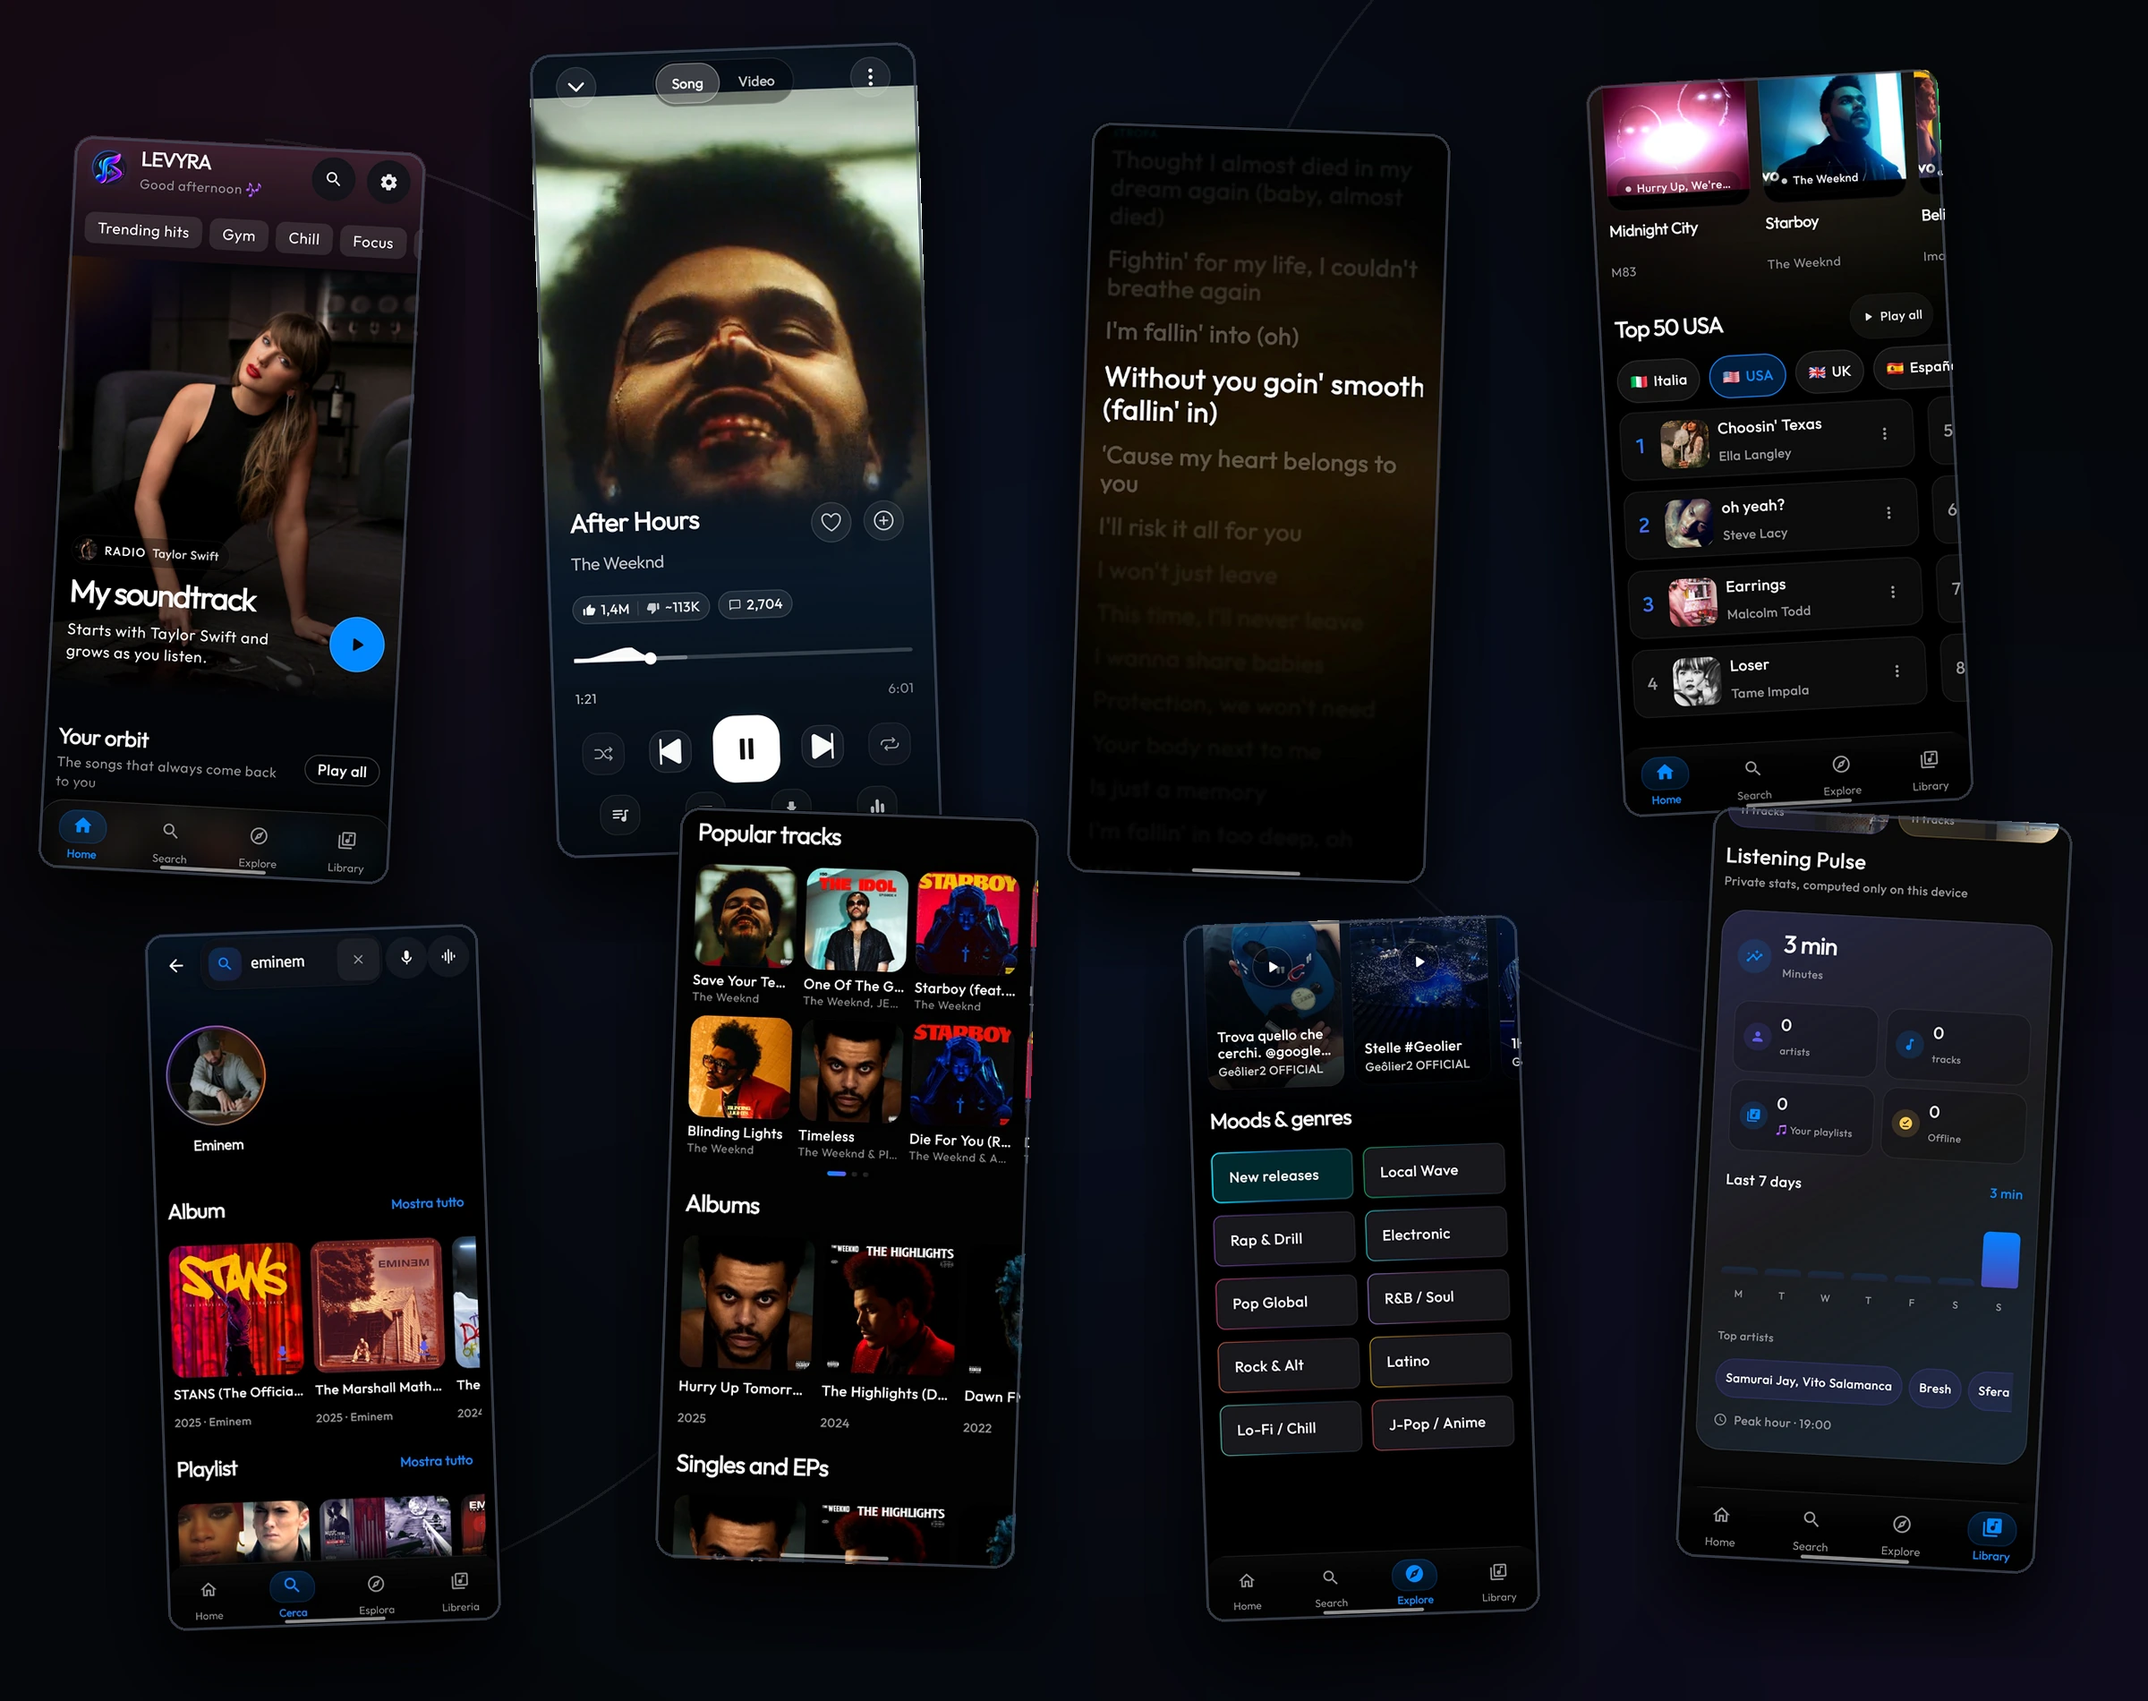
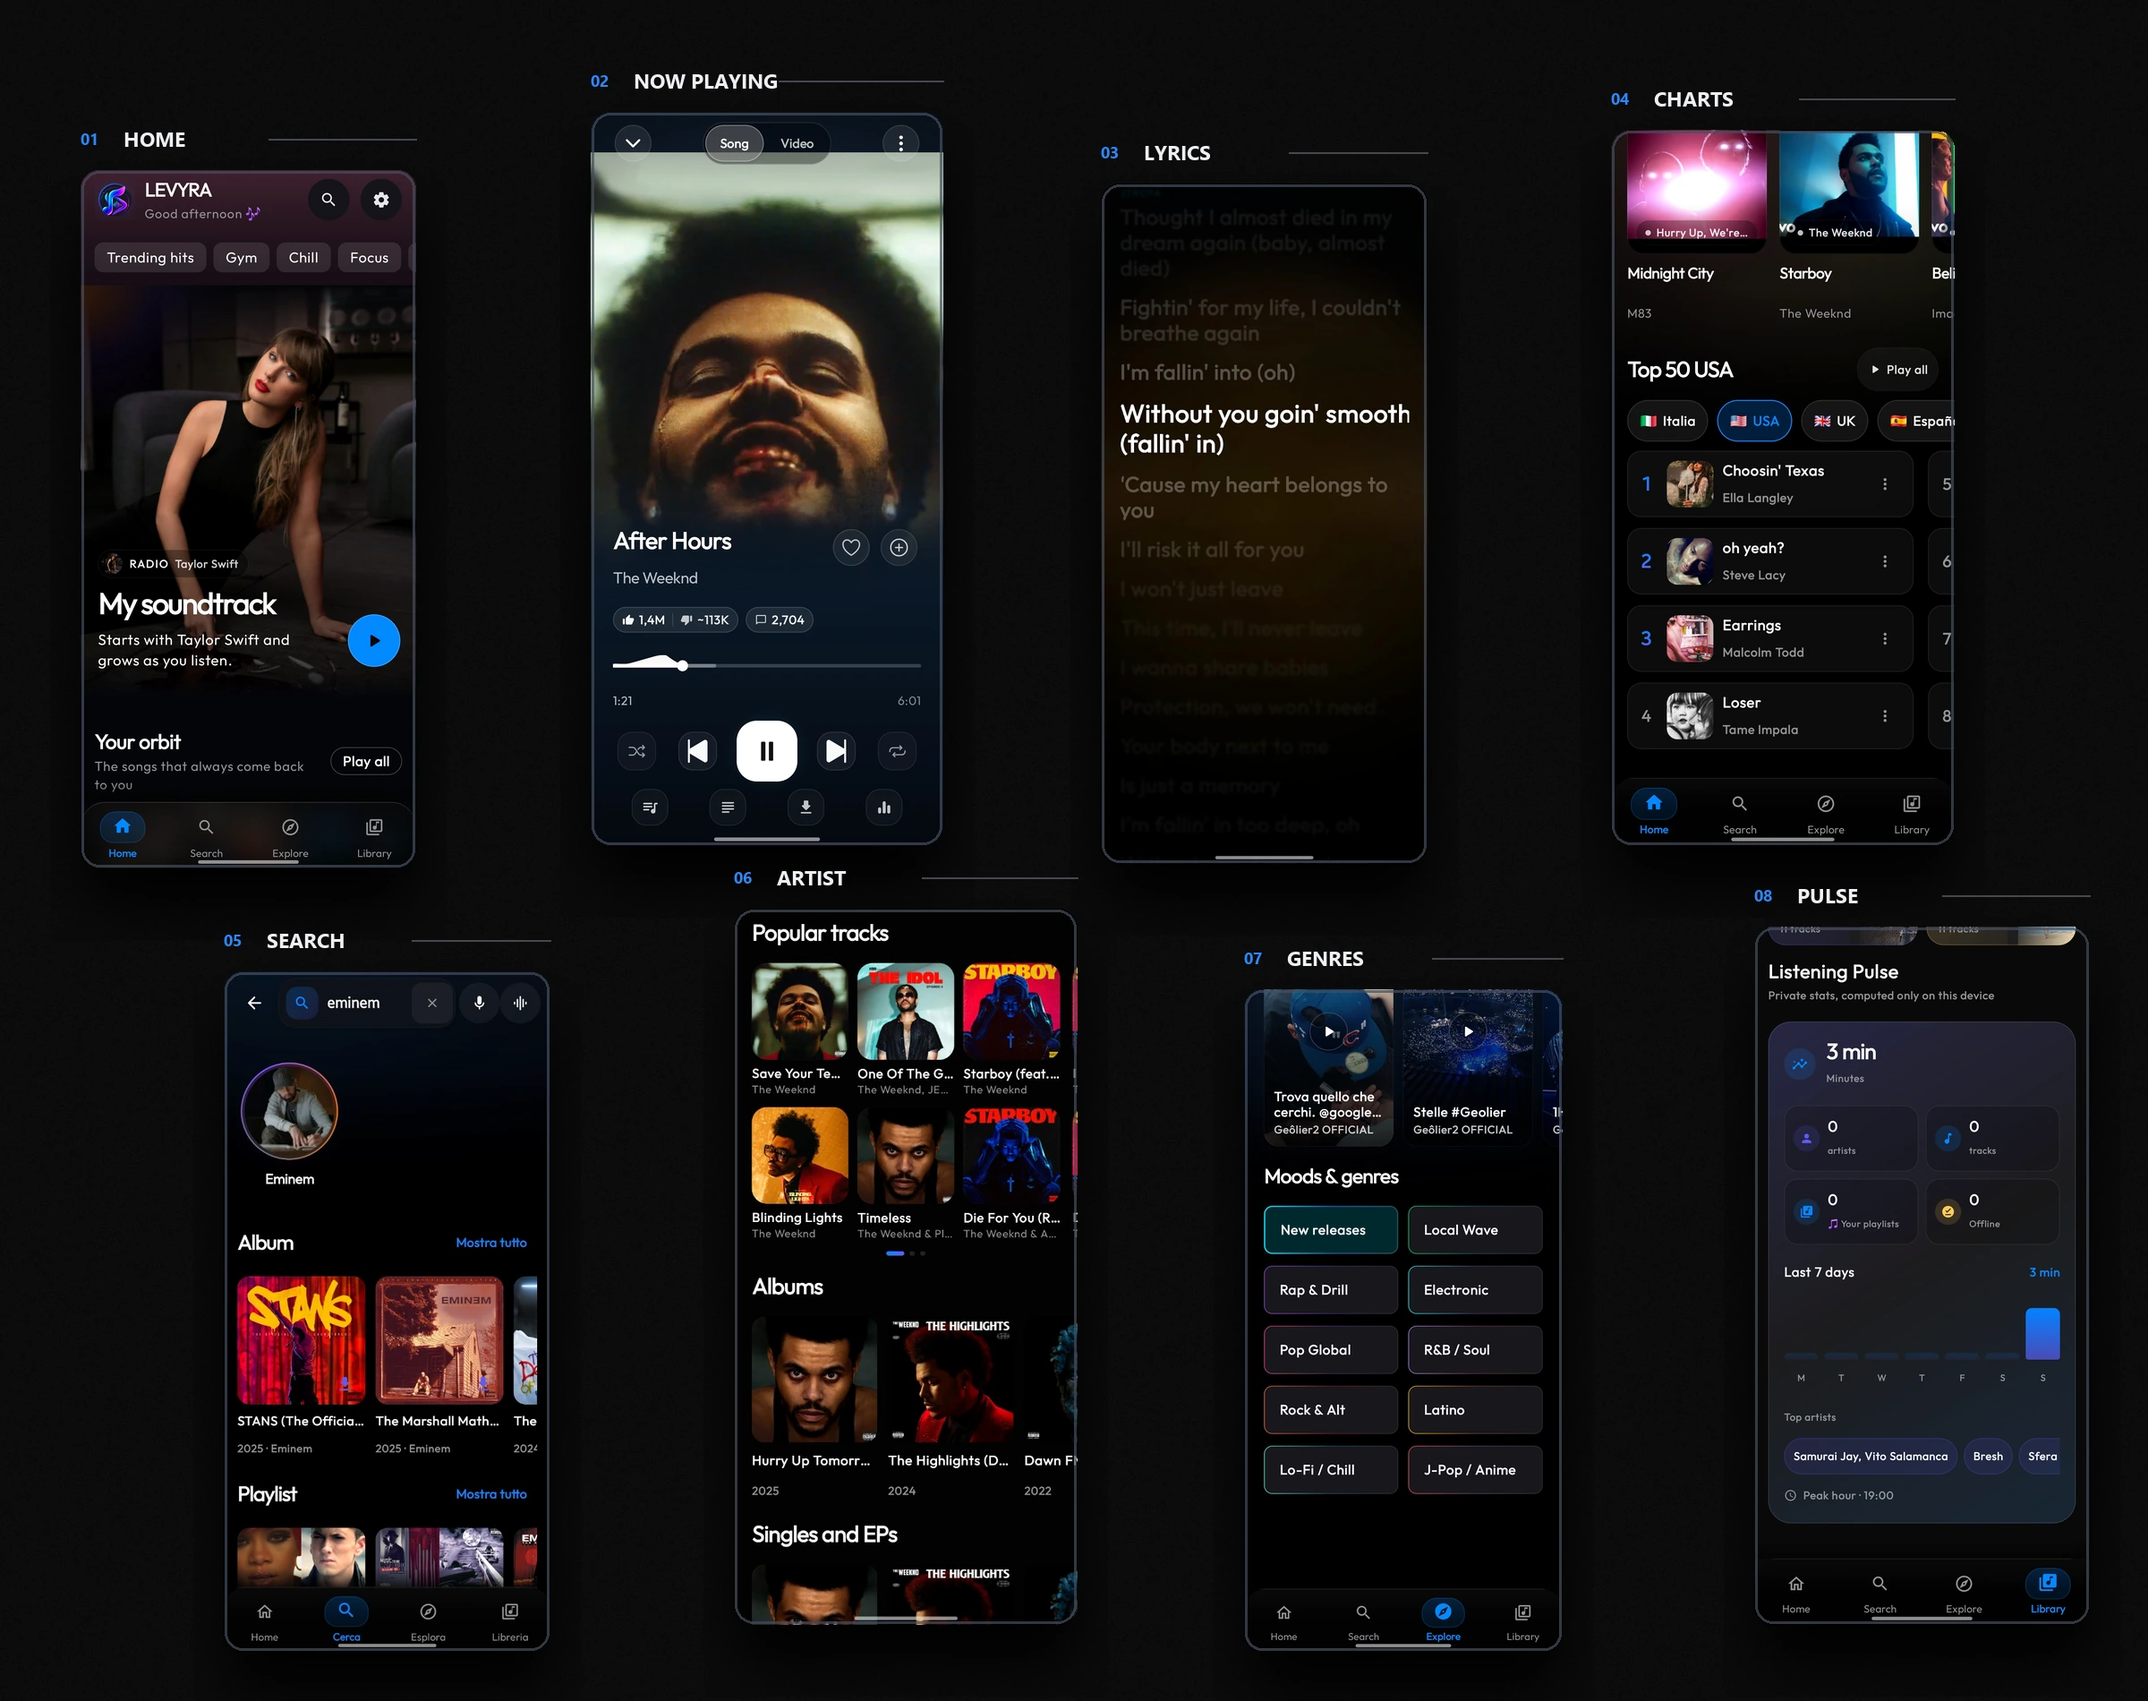
docs: redesign gallery as an editorial contact sheet

diff --git a/scripts/generate_showcase_assets.py b/scripts/generate_showcase_assets.py
@@ -348,44 +348,36 @@ def generate_hero_panoramic_showcase():
 
 def generate_gallery_showcase():
     canvas_w, canvas_h = 2400, 1900
-    canvas = Image.new("RGBA", (canvas_w, canvas_h), (5, 7, 11, 255))
-    canvas = Image.alpha_composite(
-        canvas,
-        create_ambient_glow(canvas_w, canvas_h, (420, 430), 720, (205, 48, 115), max_alpha=65),
-    )
-    canvas = Image.alpha_composite(
-        canvas,
-        create_ambient_glow(canvas_w, canvas_h, (1200, 840), 980, (34, 111, 255), max_alpha=70),
-    )
-    canvas = Image.alpha_composite(
-        canvas,
-        create_ambient_glow(canvas_w, canvas_h, (2050, 1450), 760, (105, 61, 210), max_alpha=62),
-    )
-
-    line_layer = Image.new("RGBA", (canvas_w, canvas_h), (0, 0, 0, 0))
-    line_draw = ImageDraw.Draw(line_layer)
-    line_draw.arc((-620, 150, 1040, 1810), 276, 84, fill=(255, 255, 255, 20), width=3)
-    line_draw.arc((1360, -260, 2820, 1200), 96, 264, fill=(255, 255, 255, 17), width=3)
-    canvas = Image.alpha_composite(canvas, line_layer)
+    rng = np.random.default_rng(27)
+    grain = rng.normal(0, 1.7, (canvas_h, canvas_w, 1))
+    base = np.full((canvas_h, canvas_w, 3), 12, dtype=np.float32)
+    canvas = Image.fromarray(np.clip(base + grain, 7, 18).astype(np.uint8), "RGB").convert("RGBA")
+    draw = ImageDraw.Draw(canvas)
+    label_font = get_font(23, bold=True)
+    number_font = get_font(18, bold=True)
 
     placements = [
-        ("home", 40, 150, -3, 820),
-        ("now_playing", 590, 45, 2, 900),
-        ("lyrics", 1190, 135, -2, 840),
-        ("charts", 1770, 75, 3, 820),
-        ("search_artist", 160, 1030, 2, 780),
-        ("artist_discography", 730, 900, -2, 840),
-        ("genres", 1320, 1020, 2, 780),
-        ("listening_pulse", 1870, 900, -3, 840),
+        ("home", "01", "HOME", 90, 190, 780),
+        ("now_playing", "02", "NOW PLAYING", 660, 125, 820),
+        ("lyrics", "03", "LYRICS", 1230, 205, 760),
+        ("charts", "04", "CHARTS", 1800, 145, 800),
+        ("search_artist", "05", "SEARCH", 250, 1085, 760),
+        ("artist_discography", "06", "ARTIST", 820, 1015, 800),
+        ("genres", "07", "GENRES", 1390, 1105, 740),
+        ("listening_pulse", "08", "PULSE", 1960, 1035, 780),
     ]
 
-    for key, x, y, angle, height in placements:
+    for key, number, label, x, y, height in placements:
         with Image.open(get_screen_path(SCREENS[key])) as source:
             screen = create_gallery_screen(source, target_height=height)
-        tilted = screen.rotate(angle, resample=Image.Resampling.BICUBIC, expand=True)
-        shadow = create_studio_shadow(tilted, blur_radius=42, opacity=175, offset=(0, 25))
-        canvas.paste(shadow, (x - 42, y - 18), shadow)
-        canvas.paste(tilted, (x, y), tilted)
+        label_y = y - 48
+        draw.text((x, label_y), number, font=number_font, fill=(41, 137, 255, 255))
+        draw.text((x + 48, label_y - 3), label, font=label_font, fill=(238, 240, 245, 255))
+        line_start = x + 210
+        draw.line((line_start, label_y + 13, x + screen.width, label_y + 13), fill=(68, 72, 80, 255), width=2)
+        shadow = create_studio_shadow(screen, blur_radius=34, opacity=205, offset=(0, 24))
+        canvas.paste(shadow, (x - 34, y - 12), shadow)
+        canvas.paste(screen, (x, y), screen)
 
     out_path = os.path.join(OUT_SHOWCASE_DIR, "01_levyra_gallery.webp")
     canvas.convert("RGB").save(out_path, "WEBP", quality=92, method=6)

diff --git a/README.md b/README.md
@@ -140,33 +140,9 @@ Artwork, lyrics, queue position, listening history and recommendations still bel
 
 <img src="docs/assets/showcase/00_levyra_hero_showcase.webp" alt="Levyra interface across five phones" width="100%" />
 
-<br>
-
-<sub>A closer look at the player, synced lyrics, discovery, artists, and private listening stats.</sub>
-
 <br><br>
 
 <img src="docs/assets/showcase/01_levyra_gallery.webp" alt="Eight Levyra screens arranged in an editorial gallery" width="100%" />
-
-<br>
-
-<details>
-<summary><b>Open every screen at full size</b></summary>
-<br>
-
-<a href="docs/assets/screenshots/home.webp"><img src="docs/assets/screenshots/home.webp" width="200" alt="Levyra personalized home radio" /></a>
-<a href="docs/assets/screenshots/now_playing.webp"><img src="docs/assets/screenshots/now_playing.webp" width="200" alt="Levyra Now Playing screen" /></a>
-<a href="docs/assets/screenshots/lyrics.webp"><img src="docs/assets/screenshots/lyrics.webp" width="200" alt="Levyra synchronized lyrics" /></a>
-<a href="docs/assets/screenshots/charts.webp"><img src="docs/assets/screenshots/charts.webp" width="200" alt="Levyra international charts" /></a>
-
-<br>
-
-<a href="docs/assets/screenshots/search_artist.webp"><img src="docs/assets/screenshots/search_artist.webp" width="200" alt="Levyra artist search" /></a>
-<a href="docs/assets/screenshots/artist_discography.webp"><img src="docs/assets/screenshots/artist_discography.webp" width="200" alt="Levyra artist discography" /></a>
-<a href="docs/assets/screenshots/genres.webp"><img src="docs/assets/screenshots/genres.webp" width="200" alt="Levyra moods and genres" /></a>
-<a href="docs/assets/screenshots/listening_pulse.webp"><img src="docs/assets/screenshots/listening_pulse.webp" width="200" alt="Levyra private listening stats" /></a>
-
-</details>
 
 </div>
 
